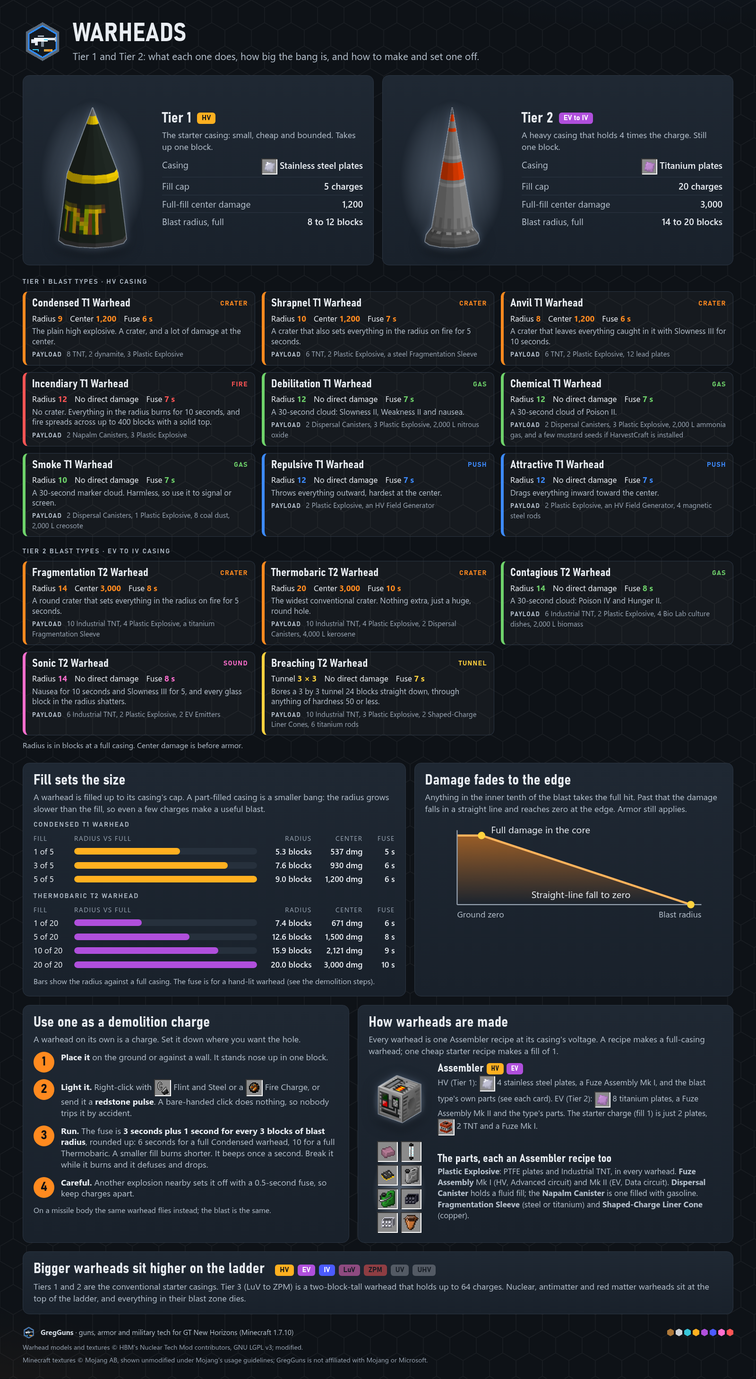
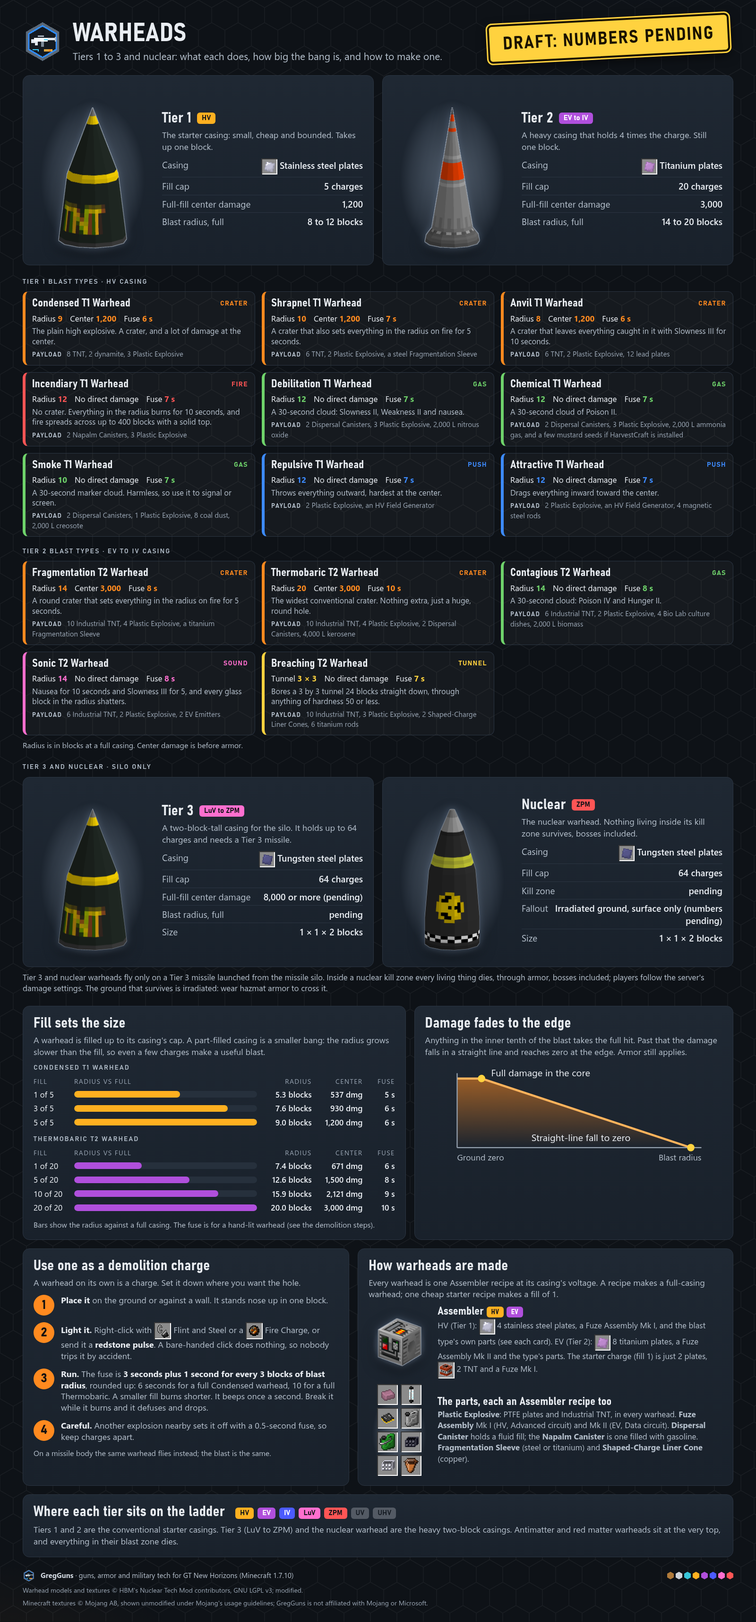
ICBM guides: draft icbm-missile-silo sheet and icbm-warheads extended to T3 and nuclear, both stamped Draft: numbers pending

diff --git a/tools/asset-gen/infographics/pages_icbm_silo.py b/tools/asset-gen/infographics/pages_icbm_silo.py
@@ -1,0 +1,201 @@
+"""The icbm-missile-silo guide sheet: the Missile Silo multiblock, layer by layer, with a T3 missile standing in it.
+
+The silo is built from GregGuns' own Gantry Casing and Gantry Beam art (no new textures), the hatches from GregTech's
+overlays, and the missile from the shipped NTM OBJ models seated as the game seats them. The cells come from the
+`SiloShape` strings when the silo coder's class is present; until then (and for the DRAFT stamp) they are generated
+from the layout in the silo sheet: a 5 x 5 plan with the four corners cut off, a 3 x 3 open shaft, a 21-cell floor,
+ten wall layers, and a ring of Gantry Beams on top.
+
+Run on its own:  python tools/asset-gen/infographics/pages_icbm_silo.py
+"""
+
+from __future__ import annotations
+
+import hashlib
+import sys
+from pathlib import Path
+
+sys.path.insert(0, str(Path(__file__).resolve().parent))
+
+import blocks as B  # noqa: E402
+import kit as K  # noqa: E402
+import render3d as R  # noqa: E402
+import scenes as S  # noqa: E402
+from kit import chip, esc  # noqa: E402
+from pages import gti, img, page_doc  # noqa: E402
+
+NTM = K.ASSETS / "models/thirdparty/ntm"
+NTM_TEX = K.ASSETS / "textures/models/thirdparty/ntm"
+FRONT, BACK, LEFT, RIGHT = S.FRONT, S.BACK, S.LEFT, S.RIGHT
+HEIGHT = 12            # layers: y0 floor .. y11 rim
+SHAFT = range(1, 4)    # the open 3 x 3 shaft, x and z
+
+
+def plan_cells() -> list[tuple[int, int]]:
+    """The 5 x 5 plan with its four corner columns cut off."""
+    return [(x, z) for x in range(5) for z in range(5) if (x, z) not in ((0, 0), (4, 0), (0, 4), (4, 4))]
+
+
+def silo_cells() -> dict:
+    """{(x, y, z): char}: C casing, B beam, ~ the controller. Floor y0 is the full plate; y1..y10 are the wall ring; y11 the rim."""
+    cells = {}
+    for x, z in plan_cells():
+        in_shaft = x in SHAFT and z in SHAFT
+        cells[(x, 0, z)] = "C"
+        if in_shaft:
+            continue
+        for y in range(1, 11):
+            cells[(x, y, z)] = "C"
+        cells[(x, 11, z)] = "B"
+    cells[(2, 2, 0)] = "~"
+    return cells
+
+
+# Where the sheet shows each hatch: all in the two bottom wall layers (y1, y2), none on the controller.
+HATCHES = [((0, 1, 2), "input_bus", LEFT), ((4, 1, 2), "input_hatch", RIGHT), ((2, 1, 4), "energy_hatch", BACK),
+           ((3, 1, 0), "maintenance_hatch", FRONT)]
+
+
+def silo_build() -> S.Build:
+    b = S.Build("silo")
+    gc = S._casing("gantry_casing")
+    b.define("casing", "Gantry Casing", gc, "walls and floor")
+    b.define("beam", "Gantry Beam", S._casing("gantry_beam"), "the rim")
+    b.define("ctrl", "Missile Silo", (gc, gc, gc), "controller, middle of the front wall")
+    b.put(silo_cells(), {"C": "casing", "B": "beam", "~": ("ctrl", FRONT)})
+    for pos, kind, facing in HATCHES:
+        b.hatch(pos, kind, facing, gc)
+    return b
+
+
+def missile_scene():
+    """The T3 body on the shaft floor with the T3 warhead seated on its nose (y = 6), centered in the shaft."""
+    body = R.obj_scene(NTM / "missile_body_t3.obj", NTM_TEX / "missile_body_t3.png")
+    head = R.obj_scene(NTM / "warhead_t3.obj", NTM_TEX / "warhead_t3.png")
+    sc = R.Scene()
+    sc.extend(body, R.tr(2 - 0.5 + 0, 1, 2 - 0.5))
+    sc.extend(head, R.tr(2 - 0.5 + 0, 1 + 6, 2 - 0.5))
+    return sc
+
+
+def render(b: S.Build, yaw=-35, pitch=28, ppu=34, cut=None, missile=True, marks=True) -> Path:
+    tex_sig = hashlib.sha1((NTM / "missile_body_t3.obj").read_bytes() + (NTM / "warhead_t3.obj").read_bytes()).hexdigest()[:8]
+
+    def make():
+        bl = b.blocks if cut is None else {p: v for p, v in b.blocks.items() if not cut(*p)}
+        tags = {k: (2 if k == "ctrl" else 1) for k in b.tex if k.startswith("h_") or k == "ctrl"} if marks else None
+        scene = R.voxel_scene(bl, b.tex, tags)
+        if missile:
+            scene.extend(missile_scene())
+        return R.trim(R.render(scene, yaw=yaw, pitch=pitch, ppu=ppu, ss=2, outline=K.RIM,
+                               marks={1: K.MARK_HATCH, 2: K.MARK_CONTROLLER} if marks else None), 3)
+    params = dict(k=sorted(map(str, b.blocks.items())), t=sorted(map(str, b.tex.items())), y=yaw, p=pitch, u=ppu, m=missile,
+                  c=cut is not None, g=marks, s=tex_sig, v=1)
+    return K._cached("silo", params, make)
+
+
+# ---------------------------------------------------------------- layer diagrams
+
+COLORS = {"C": "#6f7d8d", "B": "#d99a2b", "~": "#38c6d9", "h": "#ff8a1f", "S": "#2a3340", ".": "transparent"}
+
+
+def layer_grid(y: int, cells: dict, hatch_pos: dict, label: str) -> str:
+    rows = []
+    for z in range(5):
+        row = []
+        for x in range(5):
+            ch = cells.get((x, y, z))
+            if (x, y, z) in hatch_pos:
+                ch, txt = "h", hatch_pos[(x, y, z)]
+            elif ch == "~":
+                txt = "Ctrl"
+            elif ch == "C":
+                txt = ""
+            elif ch == "B":
+                txt = ""
+            elif x in SHAFT and z in SHAFT:
+                ch, txt = "S", ""
+            else:
+                ch, txt = ".", ""
+            row.append(f'<div class="c" style="background:{COLORS[ch]}{";border:0" if ch == "." else ""}"><b>{txt}</b></div>')
+        rows.append("".join(row))
+    return f'<div class="lay"><div class="g">{"".join(rows)}</div><div class="lb">{label}</div></div>'
+
+
+CSS = """
+.ribbon { position: absolute; top: 40px; right: 56px; transform: rotate(-3deg); text-align: center;
+  background: #ffd23f; color: #1a1200; font-family: Bahnschrift, "Fira Sans Condensed", "Noto Sans", sans-serif; font-stretch: condensed;
+  font-weight: 800; font-size: 38px; letter-spacing: .06em; text-transform: uppercase; padding: 12px 28px 10px; border-radius: 10px;
+  border: 4px solid #1a1200; outline: 3px solid #ffd23f; box-shadow: 0 8px 22px rgba(0,0,0,.6); z-index: 5; }
+.lay { display: flex; flex-direction: column; align-items: center; gap: 8px; }
+.lay .g { display: grid; grid-template-columns: repeat(5, 50px); grid-auto-rows: 50px; gap: 3px; }
+.lay .c { border-radius: 4px; display: flex; align-items: center; justify-content: center; border: 1px solid rgba(255,255,255,.12); }
+.lay .c b { font-size: 11px; color: #1a1200; font-weight: 700; text-align: center; line-height: 1.05; }
+.lay .lb { font-size: 16px; color: var(--muted); text-align: center; }
+.lay .lb b { color: var(--txt); display: block; font-size: 18px; }
+.req { display: grid; grid-template-columns: 56px 1fr; gap: 14px; align-items: center; padding: 9px 0; border-bottom: 1px solid var(--line); }
+.req:last-child { border-bottom: 0; }
+.req .t { font-size: 18px; color: var(--muted); line-height: 1.3; }
+.req .t b { color: var(--txt); }
+.step { display: flex; gap: 14px; align-items: flex-start; }
+.step .t { font-size: 18px; color: var(--muted); line-height: 1.32; }
+.step .t b { color: var(--txt); }
+"""
+
+HATCH_NAME = {"input_bus": "Bus", "input_hatch": "Fuel", "energy_hatch": "EU", "maintenance_hatch": "Maint"}
+
+
+def silo() -> str:
+    b = silo_build()
+    cells = silo_cells()
+    hp = {pos: HATCH_NAME[k] for pos, k, _ in HATCHES}
+    hero = render(b, yaw=-38, pitch=26, ppu=34, missile=False)
+    cutaway = render(b, yaw=-38, pitch=26, ppu=34, cut=lambda x, y, z: z <= 1 and x >= 1 and x <= 3 and y >= 1)
+    n_casing = sum(1 for v in cells.values() if v == "C") - sum(1 for p, *_ in HATCHES if cells.get(p) == "C")
+    n_beam = sum(1 for v in cells.values() if v == "B")
+    layers = (layer_grid(0, cells, {}, "<b>Floor</b>layer 1 &middot; 21 casing")
+              + layer_grid(1, cells, hp, "<b>Hatch layer</b>layer 2 &middot; hatches go here")
+              + layer_grid(2, cells, hp, "<b>Controller layer</b>layer 3 &middot; hatches here too")
+              + layer_grid(3, cells, hp, "<b>Wall</b>layers 4 to 11 &middot; 12 casing each")
+              + layer_grid(11, cells, {}, "<b>Rim</b>layer 12 &middot; 12 beams"))
+    hatch_rows = "".join(
+        f'<div class="req"><div class="t" style="grid-column:1/3"><b>{esc(name)}</b> &middot; {esc(why)}</div></div>'
+        for name, why in [
+            ("Input Bus (at least 1)", "carries missile bodies and warheads; the silo mates them itself"),
+            ("Input Hatch (at least 1)", "the fuel. It must be the fuel the missile's tier needs, or better"),
+            ("Energy Hatch (at least 1)", "its tier sets the heaviest body the silo can launch: HV for Tier 1, EV for Tier 2, LuV for Tier 3"),
+            ("Maintenance Hatch (1)", "as on any GregTech multiblock"),
+        ])
+    body = f"""<div style="display:grid;grid-template-columns:1fr 470px;gap:20px">
+<div class="card" style="display:flex;flex-direction:column;min-height:680px">
+<div style="display:flex;gap:28px;align-items:baseline;flex-wrap:wrap"><span class="label">Size</span><span style="font-size:18px">5 &times; 5 &times; 12 blocks, corners cut off</span><span>Controller {chip("LuV")}</span>
+<span style="font-size:16px;margin-left:auto"><b style="color:#38c6d9">&#9632;</b> controller &nbsp; <b style="color:var(--orange)">&#9632;</b> hatches</span></div>
+<div class="spot" style="flex:1;display:flex;align-items:center;justify-content:center;padding:10px 0;margin-top:8px">{img(hero, h=620, style="max-width:100%")}</div>
+<div class="muted" style="font-size:16px;margin-top:8px">The shaft in the middle is open to the sky: the missile climbs out of the top. The cutaway below shows it inside.</div></div>
+<div class="card"><div class="label" style="margin-bottom:6px">Blocks</div>
+<div class="req"><div class="t" style="grid-column:1/3"><b>{n_casing} Gantry Casing</b> &middot; walls and floor, minus the controller and hatches</div></div>
+<div class="req"><div class="t" style="grid-column:1/3"><b>{n_beam} Gantry Beam</b> &middot; the rim on top</div></div>
+<div class="req"><div class="t" style="grid-column:1/3"><b>1 Missile Silo controller</b> &middot; middle of the front wall, third layer up; it faces away from the shaft</div></div>
+<div class="label" style="margin:14px 0 4px">Hatches &middot; in the two layers just above the floor</div>{hatch_rows}</div></div>
+<h2 style="margin:24px 0 12px">Layer by layer</h2>
+<div class="card" style="display:flex;justify-content:space-around;gap:10px;padding:22px 14px">{layers}</div>
+<div class="muted" style="font-size:16px;margin-top:8px">Dark squares are the open shaft. The front wall is the top row. Looking down from above.</div>
+<div class="grid" style="grid-template-columns:1fr 1fr;margin-top:18px">
+<div class="card"><h2 style="margin-bottom:8px">Inside the shaft</h2><div class="spot" style="display:flex;justify-content:center;padding:10px">{img(cutaway, h=420, style="max-width:100%")}</div>
+<div class="muted" style="font-size:16px;margin-top:6px">Front wall cut away. The missile stands on the shaft floor, 8 blocks tall with its warhead.</div></div>
+<div class="card"><h2 style="margin-bottom:10px">Loading and launching</h2><div style="display:flex;flex-direction:column;gap:14px">
+<div class="step"><span class="num">1</span><div class="t"><b>Feed it.</b> Put a missile body and a warhead into the Input Bus, by hand or by conveyor. The silo seats the warhead on the nose and stands the missile in the shaft.</div></div>
+<div class="step"><span class="num">2</span><div class="t"><b>Fuel it.</b> Pipe the right fuel into the Input Hatch. Tier 3 takes Purple fuel or better. Power the Energy Hatch.</div></div>
+<div class="step"><span class="num">3</span><div class="t"><b>Link it.</b> Put a Launch Control within 6 blocks sideways and 4 up or down of the silo controller. It finds the silo the way it finds a pad.</div></div>
+<div class="step"><span class="num">4</span><div class="t"><b>Launch.</b> Pick the target on the Launch Control and fire. You never touch the missile.</div></div></div></div></div>"""
+    return page_doc("Missile Silo", "The Tier 3 launch tower: a 5 by 5 multiblock of Gantry Casing.", body,
+                    extra=CSS, overlay='<div class="ribbon">Draft: numbers pending</div>',
+                    credit=["Missile and warhead models and textures © HBM's Nuclear Tech Mod contributors, GNU LGPL v3; modified.",
+                            "Hatch overlays: GregTech 5 Unofficial textures, LGPL-3.0."])
+
+
+PAGES = {"icbm-missile-silo": silo}
+
+if __name__ == "__main__":
+    import build
+    build.main(["icbm-missile-silo"])

diff --git a/tools/asset-gen/infographics/pages_icbm.py b/tools/asset-gen/infographics/pages_icbm.py
@@ -147,6 +147,10 @@ BLASTS = [
 KIND_COLOR = {"Crater": "#ff8a1f", "Fire": "#ff5555", "Gas": "#6fd36b", "Push": "#3d8bff", "Sound": "#ff6fcf", "Tunnel": "#ffd23f"}
 
 CSS = """
+.ribbon { position: absolute; top: 40px; right: 56px; transform: rotate(-3deg); text-align: center;
+  background: #ffd23f; color: #1a1200; font-family: Bahnschrift, "Fira Sans Condensed", "Noto Sans", sans-serif; font-stretch: condensed;
+  font-weight: 800; font-size: 38px; letter-spacing: .06em; text-transform: uppercase; padding: 12px 28px 10px; border-radius: 10px;
+  border: 4px solid #1a1200; outline: 3px solid #ffd23f; box-shadow: 0 8px 22px rgba(0,0,0,.6); z-index: 5; }
 .tier-card { display: grid; grid-template-columns: 250px 1fr; gap: 22px; align-items: center; }
 .tier-card .spot { height: 360px; display: flex; align-items: flex-end; justify-content: center; padding-bottom: 14px; }
 .stat { display: flex; justify-content: space-between; gap: 14px; padding: 5px 0; border-bottom: 1px solid var(--line); font-size: 19px; }
@@ -289,9 +293,20 @@ def warheads() -> str:
 
     ladder = "".join(
         f'<span class="{"" if on else "off"}">{chip(t) if t in K.TIERS else f"<span class=chip style=background:#8a8f98>{t}</span>"}</span>'
-        for t, on in [("HV", True), ("EV", True), ("IV", True), ("LuV", False), ("ZPM", False), ("UV", False), ("UHV", False)])
-    later = f"""<div class="card"><div style="display:flex;align-items:center;gap:22px;flex-wrap:wrap"><h2>Bigger warheads sit higher on the ladder</h2><div class="ladder">{ladder}</div></div>
-<div class="muted" style="font-size:18px;margin-top:8px">Tiers 1 and 2 are the conventional starter casings. Tier 3 (LuV to ZPM) is a two-block-tall warhead that holds up to 64 charges. Nuclear, antimatter and red matter warheads sit at the top of the ladder, and everything in their blast zone dies.</div></div>"""
+        for t, on in [("HV", True), ("EV", True), ("IV", True), ("LuV", True), ("ZPM", True), ("UV", False), ("UHV", False)])
+    # DRAFT numbers from the spec (warheads-and-fill, D34, D30, D49); replaced by the code's dump once the I3 content lands.
+    t3 = _tier_card(3, "LuV", "LuV to ZPM", "Tungstensteel", "Tungsten steel", "warhead_t3", 64,
+                    "A two-block-tall casing for the silo. It holds up to 64 charges and needs a Tier 3 missile.",
+                    [("Full-fill center damage", "8,000 or more (pending)"), ("Blast radius, full", "pending"), ("Size", "1 &times; 1 &times; 2 blocks")])
+    nuke = _tier_card("", "ZPM", "ZPM", "Tungstensteel", "Tungsten steel", "warhead_nuclear", 64,
+                      "The nuclear warhead. Nothing living inside its kill zone survives, bosses included.",
+                      [("Kill zone", "pending"), ("Fallout", "Irradiated ground, surface only (numbers pending)"), ("Size", "1 &times; 1 &times; 2 blocks")])
+    nuke = nuke.replace("<h2>Tier </h2>", "<h2>Nuclear</h2>")
+    heavy = f"""<div class="label" style="margin:26px 0 10px">Tier 3 and nuclear &middot; silo only</div>
+<div class="grid" style="grid-template-columns:1fr 1fr">{t3}{nuke}</div>
+<div class="muted" style="font-size:17px;margin-top:10px">Tier 3 and nuclear warheads fly only on a Tier 3 missile launched from the missile silo. Inside a nuclear kill zone every living thing dies, through armor, bosses included; players follow the server's damage settings. The ground that survives is irradiated: wear hazmat armor to cross it.</div>"""
+    later = f"""<div class="card"><div style="display:flex;align-items:center;gap:22px;flex-wrap:wrap"><h2>Where each tier sits on the ladder</h2><div class="ladder">{ladder}</div></div>
+<div class="muted" style="font-size:18px;margin-top:8px">Tiers 1 and 2 are the conventional starter casings. Tier 3 (LuV to ZPM) and the nuclear warhead are the heavy two-block casings. Antimatter and red matter warheads sit at the very top, and everything in their blast zone dies.</div></div>"""
 
     body = f"""<div class="grid" style="grid-template-columns:1fr 1fr">{t1}{t2}</div>
 <div class="label" style="margin:26px 0 10px">Tier 1 blast types &middot; HV casing</div>
@@ -299,11 +314,12 @@ def warheads() -> str:
 <div class="label" style="margin:22px 0 10px">Tier 2 blast types &middot; EV to IV casing</div>
 <div class="grid" style="grid-template-columns:repeat(3,minmax(0,1fr));gap:14px">{t2_cards}</div>
 <div class="muted" style="font-size:16px;margin-top:10px">Radius is in blocks at a full casing. Center damage is before armor.</div>
+{heavy}
 <div class="grid" style="grid-template-columns:1.2fr 1fr;margin-top:26px">{fill}{falloff}</div>
 <div class="grid" style="grid-template-columns:1fr 1.15fr;margin-top:18px">{demo}{make}</div>
 <div style="margin-top:18px">{later}</div>"""
-    return page_doc("Warheads", "Tier 1 and Tier 2: what each one does, how big the bang is, and how to make and set one off.", body,
-                    extra=CSS,
+    return page_doc("Warheads", "Tiers 1 to 3 and nuclear: what each does, how big the bang is, and how to make one.", body,
+                    extra=CSS, overlay='<div class="ribbon">Draft: numbers pending</div>',
                     credit=["Warhead models and textures \u00a9 HBM's Nuclear Tech Mod contributors, GNU LGPL v3; modified.", MOJANG_CREDIT])
 
 

diff --git a/tools/asset-gen/build_manifest.py b/tools/asset-gen/build_manifest.py
@@ -816,7 +816,8 @@ INFO = [
     ("enemies", "enemies", "Player guide: mobs by danger, rendered, plus structures and loot.", "P2"),
     ("questbook", "questbook", "Player guide: the GregGuns questbook chapters, side branches and rewards.", "P2"),
     ("recipes_steam_and_lv", "recipes-steam-and-lv", "Player guide: the Steam and LV crafting chains, crafting-table grids and Assembler and Ammo Press rows, read from the mod's recipe tables.", "P2"),
-    ("icbm_warheads", "icbm-warheads", "Player guide (DRAFT, stamped; numbers pending): the Tier 1 and Tier 2 warheads rendered from the shipped models, every T1-T2 blast type, fill and radius, damage falloff, demolition-charge use, and the GT machines that make them. Shows HBM's Nuclear Tech Mod warhead models (LGPL-3.0).", "P2"),
+    ("icbm_warheads", "icbm-warheads", "Player guide (DRAFT, stamped; numbers pending): the Tier 1, Tier 2, Tier 3 and nuclear warheads rendered from the shipped models, every T1-T2 blast type, fill and radius, damage falloff, demolition-charge use, and the GT machines that make them. Shows HBM's Nuclear Tech Mod warhead models (LGPL-3.0).", "P2"),
+    ("icbm_missile_silo", "icbm-missile-silo", "Build guide (DRAFT, stamped; numbers pending): the Missile Silo multiblock, layer by layer, with block counts, hatches and a Tier 3 missile standing in the shaft. Shows HBM's Nuclear Tech Mod missile models (LGPL-3.0). Built by tools/asset-gen/infographics/build.py; no vector source.", "P2"),
     ("icbm_first_missile", "icbm-first-missile", "Player guide (DRAFT, stamped; numbers pending): the Tier 1 and Tier 2 missiles on the Galacticraft pad, and the steps from chip and schematic to body, stacking, fuel, launch control and impact. Shows HBM's Nuclear Tech Mod missile and warhead models (LGPL-3.0).", "P2"),
 ]
 for iid, fn, brief, pri in INFO:

diff --git a/tools/asset-gen/infographics/build.py b/tools/asset-gen/infographics/build.py
@@ -15,9 +15,10 @@ sys.path.insert(0, str(Path(__file__).resolve().parent))
 import kit  # noqa: E402
 import pages_icbm  # noqa: E402
 import pages_icbm_missile  # noqa: E402
+import pages_icbm_silo  # noqa: E402
 import pages_more as _more  # noqa: E402
 
-PAGES = {**_more.PAGES, **pages_icbm.PAGES, **pages_icbm_missile.PAGES}
+PAGES = {**_more.PAGES, **pages_icbm.PAGES, **pages_icbm_missile.PAGES, **pages_icbm_silo.PAGES}
 
 
 def main(names):

diff --git a/docs/assets/CREDITS.md b/docs/assets/CREDITS.md
@@ -26,8 +26,9 @@
 | infographics/enemies.png | Claude (Anthropic) via tools/asset-gen/infographics/build.py | HTML laid out in Python, PNG via Playwright + Edge; 3D renders of the mod's own models, textures and block layouts by tools/asset-gen/infographics/render3d.py; includes GregTech 5 Unofficial textures (hulls, hatches, frames, glass, material icons) read from the pack's GT jar; the Skeleton Soldier's and Zombie Pigman Soldier's skins are Mojang's vanilla skeleton and zombie pigman textures, read unmodified from the vanilla 1.7.10 client jar at build time (not stored in the repo) and credited in the sheet footer | MIT, except the GregTech textures it shows (LGPL-3.0), and Mojang's Minecraft textures it shows (used under Mojang's usage guidelines) | 2026-10-25 |
 | infographics/questbook.png | Claude (Anthropic) via tools/asset-gen/infographics/build.py | HTML laid out in Python, PNG via Playwright + Edge; 3D renders of the mod's own models, textures and block layouts by tools/asset-gen/infographics/render3d.py; includes GregTech 5 Unofficial textures (hulls, hatches, frames, glass, material icons) read from the pack's GT jar | MIT, except the GregTech textures it shows (LGPL-3.0) | 2026-10-19 |
 | infographics/recipes-steam-and-lv.png | Claude (Anthropic) via tools/asset-gen/infographics/build.py | HTML laid out in Python, PNG via Playwright + Edge; 3D renders of the mod's own models, textures and block layouts by tools/asset-gen/infographics/render3d.py; includes GregTech 5 Unofficial textures (hulls, machine overlays, component and tool icons, material icons); vanilla ingredient icons are Mojang's textures, read unmodified from the vanilla 1.7.10 client jar at build time by tools/asset-gen/infographics/vanilla.py (not stored in the repo) and credited in the sheet footer | MIT, except the GregTech textures it shows (LGPL-3.0), and Mojang's Minecraft textures it shows (used under Mojang's usage guidelines) | 2026-10-25 |
-| infographics/icbm-warheads.png | Claude (Anthropic) via tools/asset-gen/infographics/build.py (pages_icbm.py) | HTML laid out in Python, PNG via Playwright; 3D renders of the shipped warhead OBJ models (HBM's Nuclear Tech Mod contributors, LGPL-3.0, modified; see warhead_t1 and warhead_t2 above) by tools/asset-gen/infographics/render3d.py; includes GregTech 5 Unofficial textures (hulls, machine overlays, casings, plate icons) read from the pack's GT jar; the TNT, Flint and Steel and Fire Charge icons are the real Minecraft textures, read from the Minecraft 1.7.10 client jar at build time and never stored in the repo (D55); numbers read from the code | MIT, except the NTM warhead art it shows (LGPL-3.0, credited in its footer), the GregTech textures (LGPL-3.0) and the Minecraft textures (© Mojang / Microsoft, shown under Mojang's usage guidelines and credited in its footer) | 2026-10-26 |
+| infographics/icbm-warheads.png | Claude (Anthropic) via tools/asset-gen/infographics/build.py (pages_icbm.py) | HTML laid out in Python, PNG via Playwright; 3D renders of the shipped warhead OBJ models (HBM's Nuclear Tech Mod contributors, LGPL-3.0, modified; see warhead_t1, warhead_t2, warhead_t3 and warhead_nuclear above) by tools/asset-gen/infographics/render3d.py; includes GregTech 5 Unofficial textures (hulls, machine overlays, casings, plate icons) read from the pack's GT jar; the TNT, Flint and Steel and Fire Charge icons are the real Minecraft textures, read from the Minecraft 1.7.10 client jar at build time and never stored in the repo (D55); numbers read from the code | MIT, except the NTM warhead art it shows (LGPL-3.0, credited in its footer), the GregTech textures (LGPL-3.0) and the Minecraft textures (© Mojang / Microsoft, shown under Mojang's usage guidelines and credited in its footer) | 2026-10-26 |
 | infographics/icbm-first-missile.png | Claude (Anthropic) via tools/asset-gen/infographics/build.py (pages_icbm_missile.py) | HTML laid out in Python, PNG via Playwright; 3D renders of the shipped missile body and warhead OBJ models (HBM's Nuclear Tech Mod contributors, LGPL-3.0, modified; see missile_body_t1, missile_body_t2, warhead_t1 and warhead_t2 above) by tools/asset-gen/infographics/render3d.py; includes GregTech 5 Unofficial textures (hulls, machine overlays, plate icons) read from the pack's GT jar; the iron block is the real Minecraft texture, read from the Minecraft 1.7.10 client jar at build time and never stored in the repo (D55); numbers read from the code | MIT, except the NTM warhead art it shows (LGPL-3.0, credited in its footer), the GregTech textures (LGPL-3.0) and the Minecraft textures (© Mojang / Microsoft, shown under Mojang's usage guidelines and credited in its footer) | 2026-10-26 |
+| infographics/icbm-missile-silo.png | Claude (Anthropic) via tools/asset-gen/infographics/build.py (pages_icbm_silo.py) | HTML laid out in Python, PNG via Playwright; 3D renders of the shipped missile body and warhead OBJ models standing in the silo (HBM's Nuclear Tech Mod contributors, LGPL-3.0, modified; see missile_body_t3 and warhead_t3 above) by tools/asset-gen/infographics/render3d.py; includes GregTech 5 Unofficial textures (hulls, machine overlays, plate icons) read from the pack's GT jar; the silo is drawn from the mod's own Gantry Casing and Gantry Beam art; numbers read from the code | MIT, except the NTM art it shows (LGPL-3.0, credited in its footer), the GregTech hatch overlays (LGPL-3.0) | 2026-10-26 |
 
 ## Third-party assets
 

diff --git a/docs/assets/MANIFEST.md b/docs/assets/MANIFEST.md
@@ -4,7 +4,7 @@ Every non-code asset GregGuns needs, derived from the design records ([0001](../
 
 The machine-readable twin is [tools/asset-gen/manifest.json](../../tools/asset-gen/manifest.json), built by `python -I tools/asset-gen/build_manifest.py`. Edit the script, not the generated files.
 
-**Totals:** 820 assets. By kind: icon 177, model 165, block 128, gui 14, particle 31, sound 279, branding 11, infographic 15. By priority: P1 34, P2 312, P3 474.
+**Totals:** 821 assets. By kind: icon 177, model 165, block 128, gui 14, particle 31, sound 279, branding 11, infographic 16. By priority: P1 34, P2 313, P3 474.
 
 ## Conventions
 
@@ -929,7 +929,7 @@ The machine-readable twin is [tools/asset-gen/manifest.json](../../tools/asset-g
 | `brand.social_preview_svg` | `docs/assets/branding/social_preview.svg` | vector | GitHub social preview source (vector). [Delivered: generated by tools/asset-gen/branding.py.] | #808080 #FF8000 #101418 #F2F2F2 | (new) | P3 |
 | `brand.social_preview` | `docs/assets/branding/social_preview.png` | 1280x640 | GitHub social preview (1280x640), keep key content inside the central 1000x500. [Delivered: generated by tools/asset-gen/branding.py.] | #808080 #FF8000 #101418 #F2F2F2 | (new) | P3 |
 
-## 9. Infographics (15)
+## 9. Infographics (16)
 
 | ID | Target path | Size / frames / audio | Brief | Palette | Techguns footprint | Pri |
 |---|---|---|---|---|---|---|
@@ -946,8 +946,9 @@ The machine-readable twin is [tools/asset-gen/manifest.json](../../tools/asset-g
 | `info.enemies` | `docs/assets/infographics/enemies.png` | 1600x3600 | Player guide: mobs by danger, rendered, plus structures and loot. Built by tools/asset-gen/infographics/build.py; no vector source. [Delivered: generated by tools/asset-gen/branding.py.] | #808080 #FF8000 #101418 #F2F2F2 | (new) | P2 |
 | `info.questbook` | `docs/assets/infographics/questbook.png` | 1600x1525 | Player guide: the GregGuns questbook chapters, side branches and rewards. Built by tools/asset-gen/infographics/build.py; no vector source. [Delivered: generated by tools/asset-gen/branding.py.] | #808080 #FF8000 #101418 #F2F2F2 | (new) | P2 |
 | `info.recipes_steam_and_lv` | `docs/assets/infographics/recipes-steam-and-lv.png` | 1600x2971 | Player guide: the Steam and LV crafting chains, crafting-table grids and Assembler and Ammo Press rows, read from the mod's recipe tables. Built by tools/asset-gen/infographics/build.py; no vector source. [Delivered: generated by tools/asset-gen/branding.py.] | #808080 #FF8000 #101418 #F2F2F2 | (new) | P2 |
-| `info.icbm_warheads` | `docs/assets/infographics/icbm-warheads.png` | 1600x2916 | Player guide (DRAFT, stamped; numbers pending): the Tier 1 and Tier 2 warheads rendered from the shipped models, every T1-T2 blast type, fill and radius, damage falloff, demolition-charge use, and the GT machines that make them. Shows HBM's Nuclear Tech Mod warhead models (LGPL-3.0). Built by tools/asset-gen/infographics/build.py; no vector source. [Delivered: generated by tools/asset-gen/branding.py.] | #808080 #FF8000 #101418 #F2F2F2 | (new) | P2 |
-| `info.icbm_first_missile` | `docs/assets/infographics/icbm-first-missile.png` | 1600x2822 | Player guide (DRAFT, stamped; numbers pending): the Tier 1 and Tier 2 missiles on the Galacticraft pad, and the steps from chip and schematic to body, stacking, fuel, launch control and impact. Shows HBM's Nuclear Tech Mod missile and warhead models (LGPL-3.0). Built by tools/asset-gen/infographics/build.py; no vector source. [Delivered: generated by tools/asset-gen/branding.py.] | #808080 #FF8000 #101418 #F2F2F2 | (new) | P2 |
+| `info.icbm_warheads` | `docs/assets/infographics/icbm-warheads.png` | 1600x3430 | Player guide (DRAFT, stamped; numbers pending): the Tier 1, Tier 2, Tier 3 and nuclear warheads rendered from the shipped models, every T1-T2 blast type, fill and radius, damage falloff, demolition-charge use, and the GT machines that make them. Shows HBM's Nuclear Tech Mod warhead models (LGPL-3.0). Built by tools/asset-gen/infographics/build.py; no vector source. [Delivered: generated by tools/asset-gen/branding.py.] | #808080 #FF8000 #101418 #F2F2F2 | (new) | P2 |
+| `info.icbm_missile_silo` | `docs/assets/infographics/icbm-missile-silo.png` | 1600x2075 | Build guide (DRAFT, stamped; numbers pending): the Missile Silo multiblock, layer by layer, with block counts, hatches and a Tier 3 missile standing in the shaft. Shows HBM's Nuclear Tech Mod missile models (LGPL-3.0). Built by tools/asset-gen/infographics/build.py; no vector source. Built by tools/asset-gen/infographics/build.py; no vector source. [Delivered: generated by tools/asset-gen/branding.py.] | #808080 #FF8000 #101418 #F2F2F2 | (new) | P2 |
+| `info.icbm_first_missile` | `docs/assets/infographics/icbm-first-missile.png` | 1600x2882 | Player guide (DRAFT, stamped; numbers pending): the Tier 1 and Tier 2 missiles on the Galacticraft pad, and the steps from chip and schematic to body, stacking, fuel, launch control and impact. Shows HBM's Nuclear Tech Mod missile and warhead models (LGPL-3.0). Built by tools/asset-gen/infographics/build.py; no vector source. [Delivered: generated by tools/asset-gen/branding.py.] | #808080 #FF8000 #101418 #F2F2F2 | (new) | P2 |
 
 ## 10. Excluded on purpose
 
